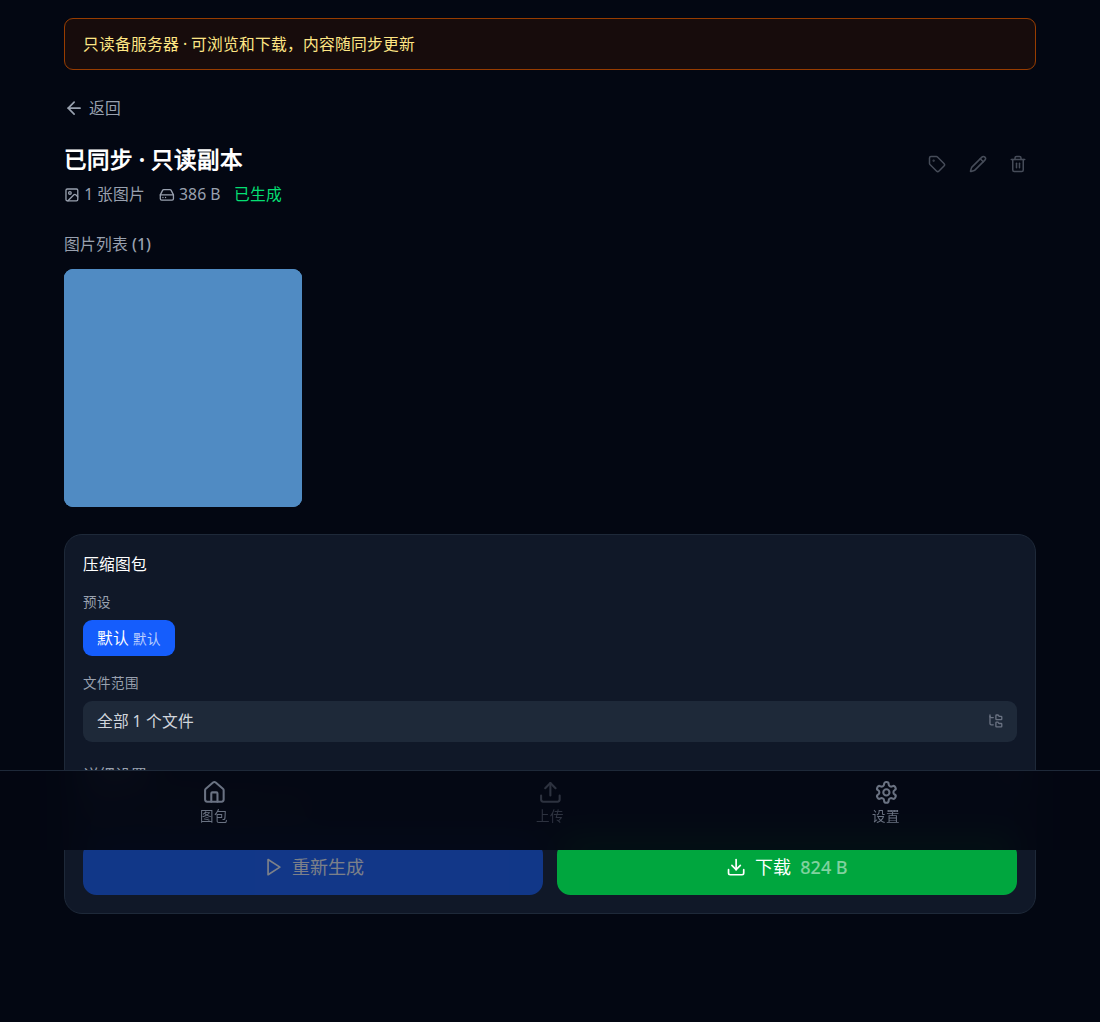
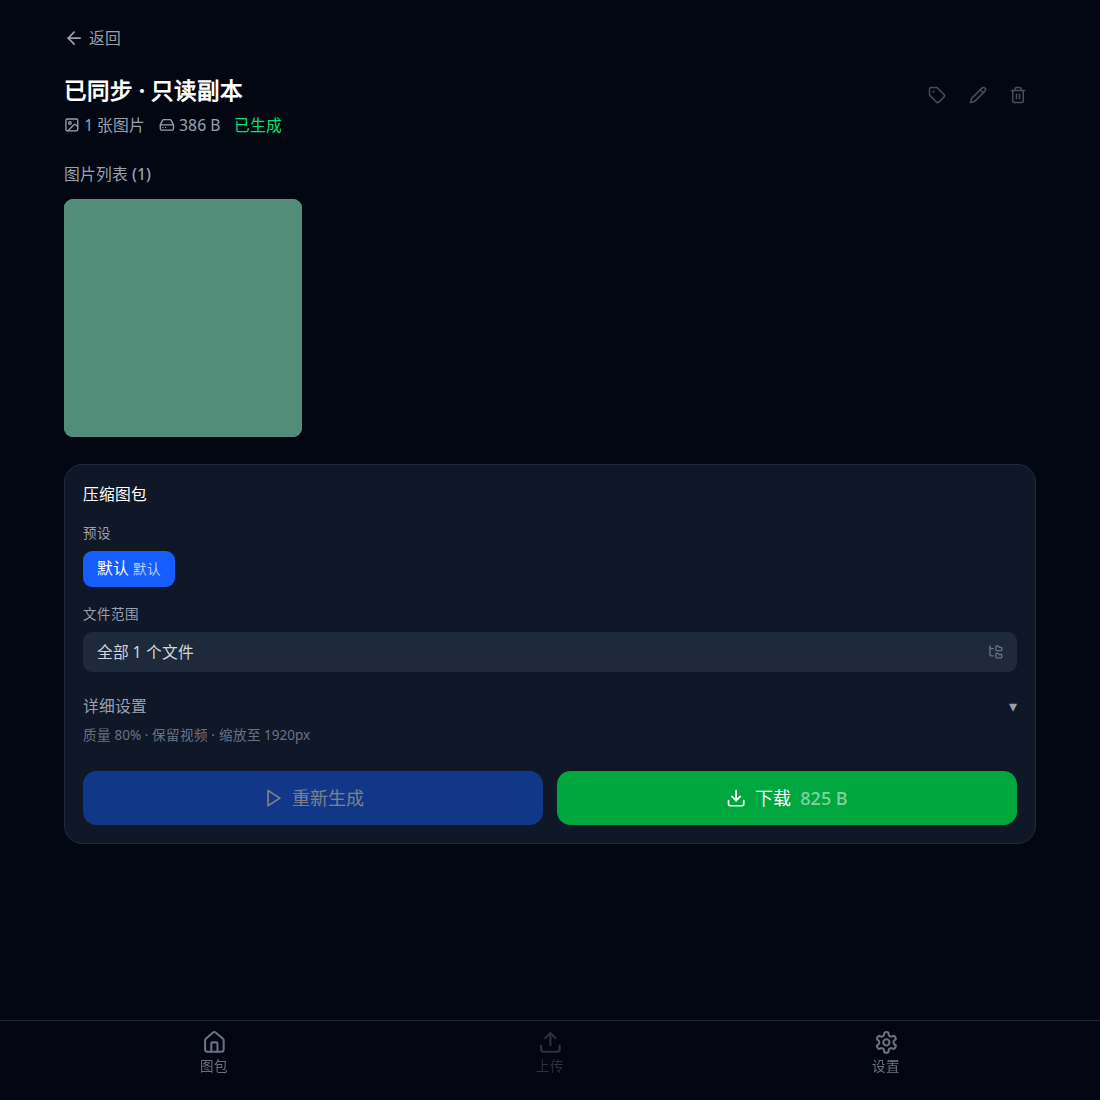
Show read-only status beside server names

diff --git a/client/src/components/ConnectionGate.tsx b/client/src/components/ConnectionGate.tsx
@@ -20,6 +20,7 @@ export default function ConnectionGate({ children }: { children: ReactNode }) {
   const [connectingId, setConnectingId] = useState<string | null>(null);
   const [records, setRecords] = useState<ServerConnection[]>([]);
   const [draft, setDraft] = useState<ServerConnection>(blank);
+  const [writableByAddress, setWritableByAddress] = useState<Record<string, boolean>>({});
   const [configured, setConfigured] = useState(false);
   const listPage = runtime.serverSelectionEnabled && location.pathname === '/servers';
   const editing = runtime.serverSelectionEnabled && location.pathname.startsWith('/servers/edit/');
@@ -73,6 +74,18 @@ export default function ConnectionGate({ children }: { children: ReactNode }) {
     return () => { cancelled = true; };
   }, []);
 
+  // Refresh labels without logging in or blocking selection. If a server is
+  // offline, retain the capability saved by the last successful connection.
+  useEffect(() => {
+    if (!configured || !listPage || ready) return;
+    let cancelled = false;
+    void Promise.allSettled(records.map(async server => {
+      const health = await inspectServer(server.address);
+      if (!cancelled) setWritableByAddress(current => ({ ...current, [server.address]: health.writable !== false }));
+    }));
+    return () => { cancelled = true; };
+  }, [configured, listPage, ready, records]);
+
   async function connect(value: ServerConnection, automatic = false, cancelled = () => false) {
     setBusy(true);
     setConnectingId(value.id);
@@ -82,6 +95,7 @@ export default function ConnectionGate({ children }: { children: ReactNode }) {
       server = { ...value, address: normalizeAddress(value.address), alias: value.alias.trim() || value.address };
       const health = await inspectServer(server.address);
       if (cancelled()) return;
+      server.writable = health.writable !== false;
       if (!health.authRequired) server.key = '';
       await login(server);
       setServerCapabilities(health);
@@ -151,7 +165,10 @@ export default function ConnectionGate({ children }: { children: ReactNode }) {
                 <button type="button" onClick={() => void connect(server)} className="flex min-w-0 flex-1 items-center gap-3 rounded-lg p-2 text-left hover:bg-gray-800/50">
                   {connectingId === server.id ? <Loader2 size={20} className="shrink-0 animate-spin text-blue-400" /> : <Server size={20} className="shrink-0 text-gray-500" />}
                   <span className="min-w-0">
-                    <span className="block font-medium truncate">{server.alias}</span>
+                    <span className="flex font-medium">
+                      <span className="truncate">{server.alias}</span>
+                      {(writableByAddress[server.address] ?? server.writable) === false && <span className="shrink-0">（只读）</span>}
+                    </span>
                     <span className="block text-xs text-gray-500 truncate mt-1">{server.address}</span>
                   </span>
                 </button>

diff --git a/client/src/pages/SettingsPage.tsx b/client/src/pages/SettingsPage.tsx
@@ -1,4 +1,4 @@
-import { activeServer, returnToServers } from '../lib/connection';
+import { activeServer, returnToServers, serverWritable } from '../lib/connection';
 import { useState, useEffect } from 'react';
 import { useNavigate } from 'react-router-dom';
 import { get } from '../api/client';
@@ -53,7 +53,10 @@ export default function SettingsPage() {
             <Server size={18} className="text-blue-400" />
             <span className="text-sm font-medium text-white">服务器</span>
           </div>
-          <span className="min-w-0 ml-auto truncate text-sm text-gray-500">{activeServer?.alias}</span>
+          <span className="min-w-0 ml-auto flex text-sm text-gray-500">
+            <span className="truncate">{activeServer?.alias}</span>
+            {!serverWritable && <span className="shrink-0">（只读）</span>}
+          </span>
         </button>
         {/* System info */}
         <div className="bg-gray-900 rounded-xl p-4 border border-gray-800">

diff --git a/client/src/components/layout/AppShell.tsx b/client/src/components/layout/AppShell.tsx
@@ -25,7 +25,6 @@ export default function AppShell() {
     <div className="min-h-screen flex flex-col bg-gray-950">
       {/* Main content */}
       <main className="flex-1 max-w-4xl mx-auto w-full px-4 py-4 pb-24">
-        {!serverWritable && <div role="status" className="mb-4 rounded-lg border border-amber-800 bg-amber-950/30 px-4 py-3 text-sm text-amber-200">只读备服务器 · 可浏览和下载，内容随同步更新</div>}
         {!serverWritable && location.pathname.replace(/\/+$/, '') === '/upload' ? <p className="text-gray-400">备服务器不支持上传，请连接主服务器。</p> : <Outlet />}
       </main>
 

diff --git a/shared/types.ts b/shared/types.ts
@@ -169,6 +169,7 @@ export interface ServerConnection {
   alias: string;
   address: string;
   key: string;
+  writable?: boolean;
 }
 
 export interface ServerHealth {

diff --git a/docs/replication-design.md b/docs/replication-design.md
@@ -18,7 +18,8 @@
   `SERVER_SELECTION_ENABLED` 仅控制前端服务器选择，与主备角色独立。
 - 前端从实际连接的 `/api/health` 获取 `writable`，同源和独立部署一致。上传入口、
   图包删除/重命名/标签/校验/压缩、预设写入、标签写入置灰。浏览、下载、服务器切换
-  和本地设置仍可用。API 客户端也拒绝发送业务写操作；服务器是最终权限边界。
+  和本地设置仍可用。只读标记仅显示在设置页服务器名称后，以及切换服务器列表别名后；
+  不显示常驻横幅。列表异步探测能力，离线时沿用上次成功连接记录。API 客户端也拒绝发送业务写操作；服务器是最终权限边界。
 
 ## 数据边界：明确选择，默认不复制
 

diff --git a/docs/screenshots/replication/README.md b/docs/screenshots/replication/README.md
@@ -2,7 +2,9 @@
 
 截图由 `scripts/test-replication.mjs` 配合 Playwright，在隔离的本地主备和 MinIO 上生成。
 `replica-detail.png` 为同源部署，`standalone-replica-detail.png` 为独立前端连接备机。
-两者均显示只读提示，上传、标签修改、重命名、删除、重新生成置灰，下载可用。
+图包详情没有常驻提示；上传、标签修改、重命名、删除、重新生成置灰，下载可用。
+`replica-settings.png` / `standalone-replica-settings.png` 展示服务器名称后的「（只读）」，
+`server-list.png` 展示切换列表别名后的「（只读）」。
 
 复现：先启动隔离的 primary、replica、frontend-only 和 S3 服务，然后执行：
 
